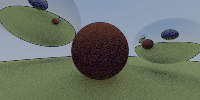
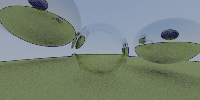
added dialectric materials

diff --git a/src/material.rs b/src/material.rs
@@ -1,4 +1,7 @@
 
+extern crate rand;
+
+
 use vec3::*;
 use ray::*;
 use hit::*;
@@ -7,37 +10,42 @@ use utils::*;
 #[derive(Debug, Copy, Clone)]
 pub enum MaterialComposition {
     Lambertian,
-    Metal
+    Metal,
+    Dialectric
 }
 
 #[derive(Debug, Copy, Clone)]
 pub struct Material {
     pub albedo: Vec3,
     pub composition: MaterialComposition,
-    pub fuzz: f32
+    pub fuzz: f32,
+    pub ref_idx: f32
 }
 
 impl Material {
 
-    pub fn new(albedo: Vec3, composition: MaterialComposition, fuzz: f32) -> Self {
+    pub fn new(albedo: Vec3, composition: MaterialComposition, fuzz: f32, ref_idx: f32) -> Self {
         Material {
             albedo,
             composition,
-            fuzz
+            fuzz,
+            ref_idx
         }
     }
     pub fn new_blank() -> Self {
         Material {
             albedo: Vec3::new(0.0, 0.0, 0.0),
             composition: MaterialComposition::Lambertian,
-            fuzz: 1.0
+            fuzz: 1.0,
+            ref_idx: 0.0
         }
     }
 
     pub fn scatter(&self, r_in: &Ray, hit_record: &HitRecord, attenuation: &Vec3, scattered: &Ray) -> (bool, Ray, Vec3) {
         match self.composition {
             MaterialComposition::Lambertian => self.scatter_lambertian(&r_in, &hit_record, &attenuation, &scattered),
-            MaterialComposition::Metal => self.scatter_metal(&r_in, &hit_record, &attenuation, &scattered)
+            MaterialComposition::Metal => self.scatter_metal(&r_in, &hit_record, &attenuation, &scattered),
+            MaterialComposition::Dialectric => self.scatter_dialectric(&r_in, &hit_record, &attenuation, &scattered)
         }
     }
 
@@ -53,5 +61,41 @@ impl Material {
         let scatter: Ray = Ray::new(hit_record.p, reflected + self.fuzz*Utils::random_in_unit_sphere());
         let atten: Vec3  = self.albedo;
         (Vec3::dot(&scatter.direction(), &hit_record.normal) > 0.0, scatter, atten)
+    }
+
+    pub fn scatter_dialectric(&self, r_in: &Ray, hit_record: &HitRecord, attenuation: &Vec3, scattered: &Ray) -> (bool, Ray, Vec3) {
+        let mut outward_normal: Vec3 = Vec3::new(0.0, 0.0, 0.0);
+        let reflected: Vec3 = Utils::reflect(&r_in.direction(), &hit_record.normal);
+        let mut refracted: Vec3 = Vec3::new(0.0, 0.0, 0.0);
+        let mut ni_over_nt: f32 = 0.0;
+        let atten: Vec3  = Vec3::new(1.0, 1.0, 1.0);
+        let mut reflect_prob: f32 = 0.0;
+        let mut cosine: f32 = 0.0;
+        let mut scatter: Ray = Ray::new_empty();
+
+        if Vec3::dot(&r_in.direction(), &hit_record.normal) > 0.0 {
+            outward_normal = -hit_record.normal;
+            ni_over_nt = self.ref_idx;
+            cosine = self.ref_idx * Vec3::dot(&r_in.direction(), &hit_record.normal) / r_in.direction().length();
+        }
+        else {
+            outward_normal = hit_record.normal;
+            ni_over_nt = 1.0 / self.ref_idx;
+            cosine = -Vec3::dot(&r_in.direction(), &hit_record.normal) / r_in.direction().length();
+        }
+        if Utils::refract(&r_in.direction(), &outward_normal, ni_over_nt, &mut refracted) {
+            reflect_prob = Utils::schlick(cosine, self.ref_idx);
+        }
+        else {
+            scatter = Ray::new(hit_record.p, reflected);
+            reflect_prob = 1.0;
+        }
+        if rand::random::<f32>() < reflect_prob {
+            scatter = Ray::new(hit_record.p, reflected);
+        }
+        else {
+            scatter = Ray::new(hit_record.p, refracted);
+        }
+        (true, scatter, atten)
     }
 }

diff --git a/src/main.rs b/src/main.rs
@@ -42,10 +42,29 @@ fn color(ray: Ray, world: &World, depth: i32) -> Vec3 {
     }
 }
 
+fn sphere_swoop(n: u32) -> Vec<Sphere> {
+    let mut spheres: Vec<Sphere> = Vec::new();
+    for s in 0..n {
+        let sf: f32 = s as f32;
+        spheres.push(
+            Sphere::new(
+                Vec3::new(0.0+f32::sin(sf), 0.0+f32::cos(sf), -1.0-(sf*0.5)), 0.5+(sf*0.1),
+                Material::new(
+                    Vec3::new(0.9, 0.9, 0.9),
+                    MaterialComposition::Metal,
+                    0.1,
+                    0.0
+                )
+            )
+        );
+    }
+    spheres
+}
+
 fn main() {
     let nx: u32 = 200;
-    let ny: u32 = 100;
-    let ns: u32 = 100;
+    let ny: u32 = nx/2;
+    let ns: u32 = nx/2;
     let fx: f32 = nx as f32;
     let fy: f32 = ny as f32;
     let fs: f32 = ns as f32;
@@ -53,14 +72,15 @@ fn main() {
 
     let cam: Camera = Camera::new();
 
-    let mut spheres: Vec<Sphere> = Vec::new();
+    let mut spheres: Vec<Sphere> = Vec::new();//sphere_swoop(20);
     spheres.push(
         Sphere::new(
             Vec3::new(0.0, 0.0, -1.0), 0.5,
             Material::new(
-                Vec3::new(0.8, 0.2, 0.1),
-                MaterialComposition::Lambertian,
-                1.9
+                Vec3::new(0.9, 0.9, 0.9),
+                MaterialComposition::Dialectric,
+                0.2,
+                0.9
             )
         )
     );
@@ -71,6 +91,7 @@ fn main() {
              Material::new(
                  Vec3::new(0.8, 0.8, 0.3),
                  MaterialComposition::Lambertian,
+                 0.0,
                  0.0
              )
         )
@@ -82,6 +103,7 @@ fn main() {
              Material::new(
                  Vec3::new(0.9, 0.9, 0.9),
                  MaterialComposition::Metal,
+                 0.0,
                  0.0
              )
         )
@@ -93,6 +115,7 @@ fn main() {
              Material::new(
                  Vec3::new(0.8, 0.8, 0.8),
                  MaterialComposition::Metal,
+                 0.0,
                  0.0
              )
         )
@@ -104,6 +127,7 @@ fn main() {
              Material::new(
                  Vec3::new(0.8, 0.8, 0.8),
                  MaterialComposition::Lambertian,
+                 0.0,
                  0.0
              )
         )

diff --git a/src/utils.rs b/src/utils.rs
@@ -6,6 +6,7 @@ use vec3::*;
 pub struct Utils {}
 
 impl Utils {
+
     pub fn random_in_unit_sphere() -> Vec3 {
         let mut p: Vec3 = Vec3::new(0.0, 0.0, 0.0);
         loop {
@@ -20,7 +21,25 @@ impl Utils {
         }
         p
     }
+
+    pub fn schlick(cosine: f32, ref_idx: f32) -> f32 {
+        let mut r0: f32 = (1.0-ref_idx) / (1.0+ref_idx);
+        f32::powf(r0, 2.0) + (1.0-r0) * f32::powf(1.0-cosine, 5.0)
+    }
+
+    pub fn refract(v: &Vec3, n: &Vec3, ni_over_nt: f32, refracted: &mut Vec3) -> bool {
+        let uv: Vec3 = Vec3::unit_vector(v.copy());
+        let dt: f32 = Vec3::dot(&uv, n);
+        let discriminant: f32 = 1.0 - f32::powf(ni_over_nt, 2.0)*(1.0-f32::powf(dt, 2.0));
+        if discriminant > 0.0 {
+            *refracted = ni_over_nt * (uv.copy() - n.copy()*dt) - n.copy()*f32::sqrt(discriminant);
+            return true;
+        }
+        false
+    }
+
     pub fn reflect(v: &Vec3, n: &Vec3) -> Vec3 {
         v.copy() - 2.0*Vec3::dot(v, n)*n.copy()
     }
+
 }
